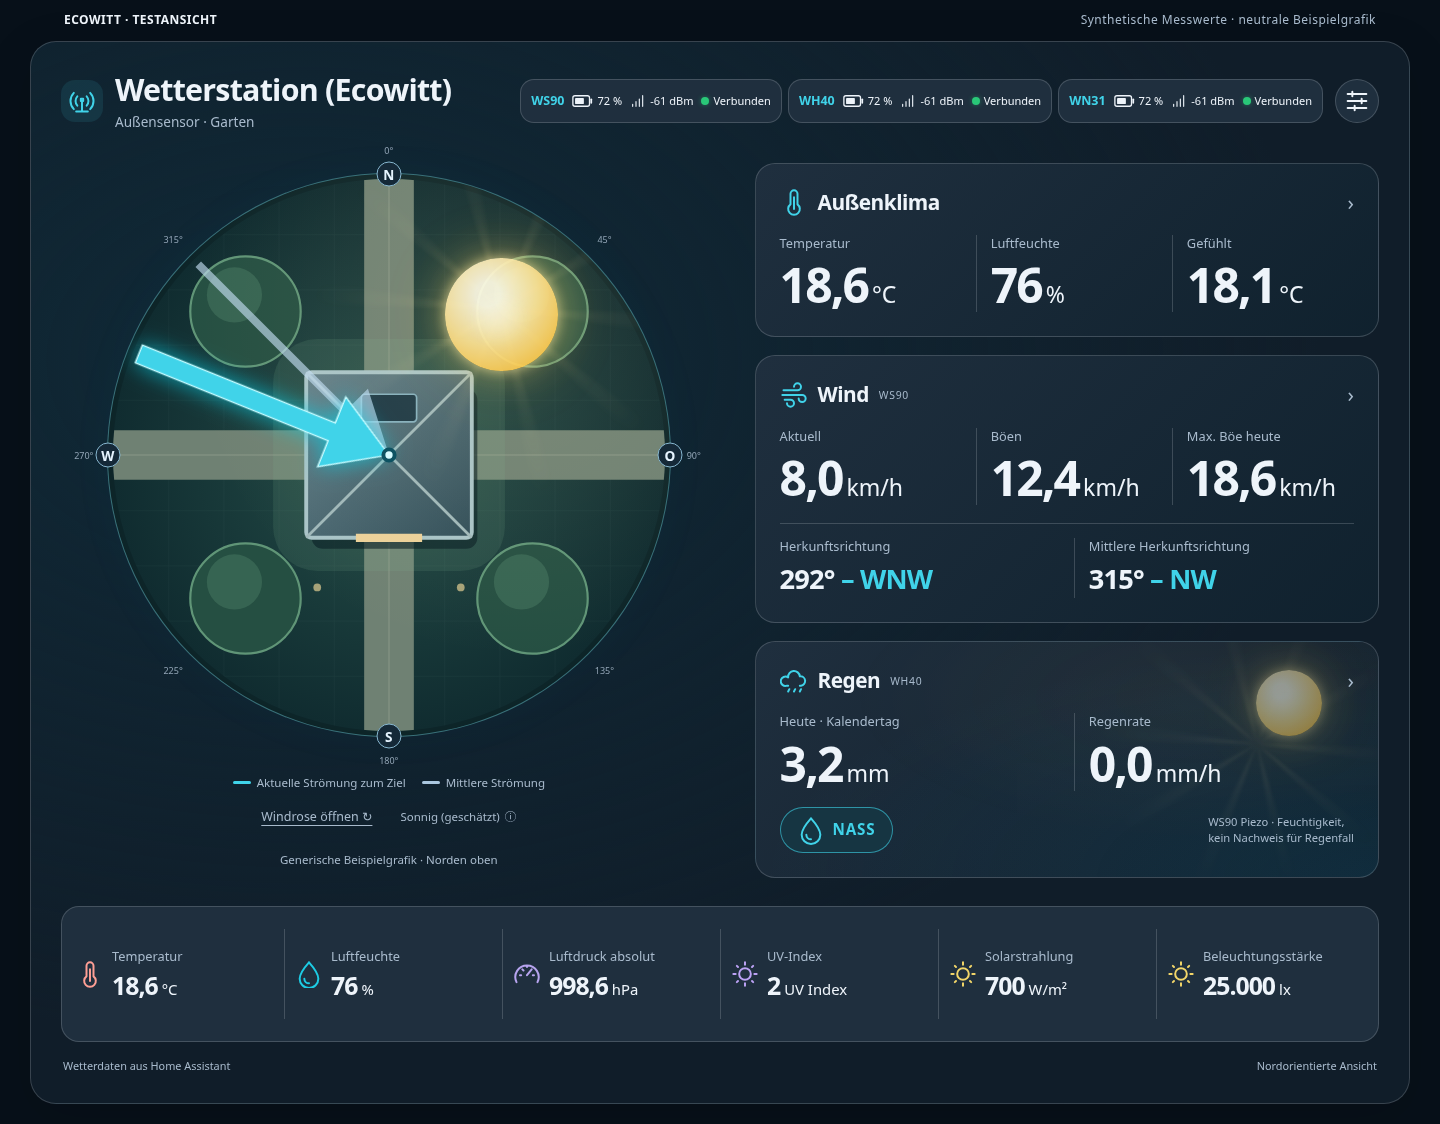
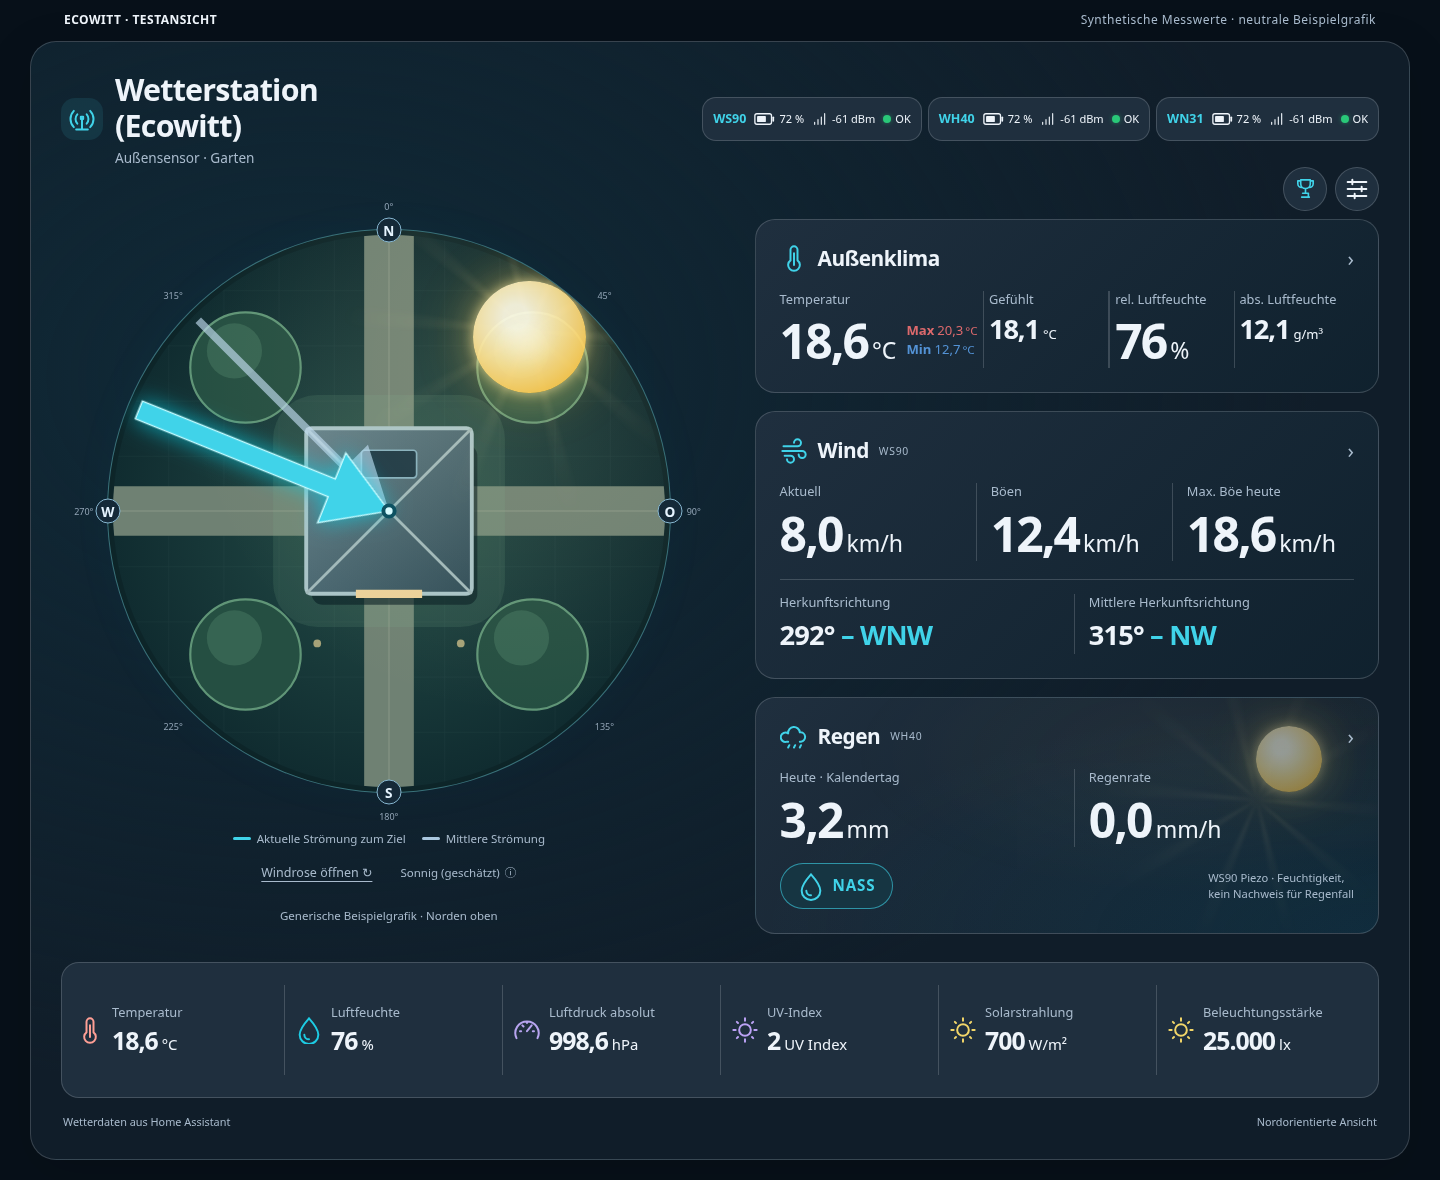
fix: refine dew point records and mobile climate layout (#38)

diff --git a/tests/browser.spec.ts b/tests/browser.spec.ts
@@ -560,7 +560,7 @@ test("the record editor saves each sensor separately and only enabled sources ap
     await options.locator("summary").click();
     for (const id of [
       "demo_temperature", "demo_room_temperature", "demo_humidity",
-      "demo_absolute_humidity", "demo_feels_like",
+      "demo_absolute_humidity", "demo_feels_like", "demo_dew_point",
     ]) {
       const checkbox = options.getByRole("checkbox", {
         name: new RegExp(`sensor\\.${id}$`),
@@ -580,7 +580,7 @@ test("the record editor saves each sensor separately and only enabled sources ap
     expect(saved).toEqual([
       "sensor.demo_wind_speed", "sensor.demo_rain_rate", "sensor.demo_pressure",
       "sensor.demo_pressure_absolute", "sensor.demo_temperature", "sensor.demo_room_temperature",
-      "sensor.demo_humidity", "sensor.demo_absolute_humidity", "sensor.demo_feels_like",
+      "sensor.demo_humidity", "sensor.demo_absolute_humidity", "sensor.demo_feels_like", "sensor.demo_dew_point",
     ]);
     await expect(options.getByRole("checkbox", { name: /sensor\.demo_room_temperature$/ })).toBeChecked();
     await expect(options.getByRole("checkbox", { name: /sensor\.demo_solar$/ })).not.toBeChecked();
@@ -596,9 +596,19 @@ test("the record editor saves each sensor separately and only enabled sources ap
       "Windgeschwindigkeit", "Höchste Regenintensität",
       "Rel. Luftfeuchte · Maximum", "Rel. Luftfeuchte · Minimum",
       "Abs. Luftfeuchte · Maximum", "Abs. Luftfeuchte · Minimum",
+      "Taupunkt · Maximum", "Taupunkt · Minimum",
       "Luftdruck relativ · Maximum", "Luftdruck relativ · Minimum",
       "Luftdruck absolut · Maximum", "Luftdruck absolut · Minimum",
     ]);
+    const humidityRecords = dialog.locator(".record-group").filter({
+      has: page.getByRole("heading", { name: "Luftfeuchte", exact: true }),
+    });
+    await expect(humidityRecords.locator('[data-record-key="dew_point"] .record-number')).toHaveCount(2);
+    for (const key of ["temperature", "feels_like", "dew_point"]) {
+      const pair = dialog.locator(".record-pair").filter({ has: page.locator(`[data-record-key="${key}"]`) }).first();
+      await expect(pair.locator('[data-record-extremum="max"]')).toHaveCSS("border-left-color", "rgb(215, 121, 64)");
+      await expect(pair.locator('[data-record-extremum="min"]')).toHaveCSS("border-left-color", "rgb(77, 135, 186)");
+    }
     const pairsAligned = await dialog.locator(".record-pair").evaluateAll(nodes =>
       nodes.every(pair => {
         const maximum = pair.querySelector('[data-record-extremum="max"]')!;
@@ -3487,35 +3497,38 @@ test("outdoor climate shows HA-local Recorder extrema and the unchanged current 
   await noOverflow(page);
 });
 
-test("day extrema are slightly larger without overlapping the main temperature on phone and desktop", async ({ page }) => {
-  for (const width of [320, 402, 1440]) {
+test("day extrema stay next to the main temperature on phone and desktop", async ({ page }) => {
+  for (const width of [320, 402, 600, 874, 1440]) {
     await page.setViewportSize({ width, height: 900 });
     await ready(page);
-    if (width === 320)
+    if (width === 320) {
       await page.addStyleTag({ content: 'ecowitt-weather-card { --paper-font-body1_-_font-family: "DejaVu Sans", sans-serif; }' });
+      await update(page, "temperature", -18.6);
+      await update(page, "temperature_max", -11.4);
+      await update(page, "temperature_min", -22.1);
+      await update(page, "humidity", 100);
+    }
     const climate = page.locator(".climate");
     const extrema = climate.locator(".climate-extreme:visible");
     await expect(extrema).toHaveCount(2);
     const sizes = await extrema.evaluateAll((nodes) => nodes.map((node) => Number.parseFloat(getComputedStyle(node).fontSize)));
     expect(sizes.every((value) => value >= 10)).toBe(true);
     const bounds = await climate.evaluate(el => {
-      const heading = el.querySelector(".climate-heading-extrema")!;
-      const extrema = heading.getBoundingClientRect().width ? heading : el.querySelector(".climate-readings")!;
-      const current = el.querySelector(".climate-readings .climate-current-value .value")!.getBoundingClientRect();
-      const max = extrema.querySelector(".climate-extreme.maximum")!.getBoundingClientRect();
-      const min = extrema.querySelector(".climate-extreme.minimum")!.getBoundingClientRect();
-      const panel = el.getBoundingClientRect();
+      const temperature = el.querySelector('.climate-readings [data-key="temperature"]')!;
+      const current = temperature.querySelector(".climate-current-value .value")!.getBoundingClientRect();
+      const max = temperature.querySelector(".climate-extreme.maximum")!.getBoundingClientRect();
+      const min = temperature.querySelector(".climate-extreme.minimum")!.getBoundingClientRect();
+      const cell = temperature.getBoundingClientRect();
       const title = el.querySelector(".panel-heading h2")!.getBoundingClientRect();
-      const overlaps = (a: DOMRect, b: DOMRect) =>
-        a.left < b.right - 0.5 && a.right > b.left + 0.5 &&
-        a.top < b.bottom - 0.5 && a.bottom > b.top + 0.5;
       return {
-        nonoverlap: [max, min].every(extreme => !overlaps(extreme, title) && !overlaps(extreme, current)),
+        besideReading: [max, min].every(extreme => extreme.width > 0 &&
+          extreme.left >= current.right - 0.5 && extreme.top >= title.bottom &&
+          extreme.top < current.bottom && extreme.bottom > current.top),
         vertical: min.top >= max.bottom - 1,
-        fits: Math.max(max.right, min.right) <= panel.right - 1,
+        fits: Math.max(max.right, min.right) <= cell.right + 0.5,
       };
     });
-    expect(bounds.nonoverlap).toBe(true);
+    expect(bounds.besideReading).toBe(true);
     expect(bounds.vertical).toBe(true);
     expect(bounds.fits).toBe(true);
     await noOverflow(page);
@@ -3827,7 +3840,7 @@ test("installed real windrose flips into the dashboard, retains instance across 
 test("wind keeps its layout and the four climate values fit at unchanged panel height on desktop and phone", async ({
   page,
 }) => {
-  for (const width of [320, 402, 792, 1024, 1440]) {
+  for (const width of [320, 402, 520, 792, 1024, 1440]) {
     await page.setViewportSize({ width, height: 1000 });
     await ready(page);
     if (width === 320 || width === 792)
@@ -3862,8 +3875,15 @@ test("wind keeps its layout and the four climate values fit at unchanged panel h
       .evaluate(node => getComputedStyle(node).fontSize);
     for (const key of ["temperature", "humidity"])
       await expect(climate.locator(`[data-key="${key}"] .value`)).toHaveCSS("font-size", primarySize);
-    for (const key of ["feels_like", "absolute_humidity"])
-      await expect(climate.locator(`[data-key="${key}"] .value`)).toHaveCSS("font-size", secondarySize);
+    for (const key of ["feels_like", "absolute_humidity"]) {
+      const value = climate.locator(`[data-key="${key}"] .value`);
+      if (width < 760) {
+        const fontSize = await value.evaluate(node => parseFloat(getComputedStyle(node).fontSize));
+        expect(fontSize / parseFloat(primarySize)).toBeCloseTo(1.7 / 3, 2);
+      } else {
+        await expect(value).toHaveCSS("font-size", secondarySize);
+      }
+    }
     await expect(climate.locator('[data-key="humidity"]')).toHaveCSS("border-left-width", "2px");
     const geometry = await climate.evaluate(grid => {
       const bounds = grid.getBoundingClientRect();

diff --git a/tests/records.test.ts b/tests/records.test.ts
@@ -211,6 +211,8 @@ test("checked climate sensors are distinct even below freezing, and unchecked so
     sample("humidity", 110, "%", later),
     sample("absolute_humidity", 3.4, "g/m³", earlier),
     sample("absolute_humidity", 97, "%", later),
+    sample("dew_point", -14, "°C", earlier),
+    sample("dew_point", -7.3, "°C", later),
     sample("feels_like", -7.1, "°C", later),
     sample("wind_speed", 42, "km/h", later),
     sample("unassigned_temperature", 27, "°C", later),
@@ -221,6 +223,7 @@ test("checked climate sensors are distinct even below freezing, and unchecked so
       temperature: "sensor.demo_temperature",
       humidity: "sensor.demo_humidity",
       absolute_humidity: "sensor.demo_absolute_humidity",
+      dew_point: "sensor.demo_dew_point",
       feels_like: "sensor.demo_feels_like",
       wind_speed: "sensor.demo_wind_speed",
     }),
@@ -231,7 +234,7 @@ test("checked climate sensors are distinct even below freezing, and unchecked so
     record_entities: [
       "sensor.demo_absolute_humidity", "sensor.demo_feels_like",
       "sensor.demo_temperature", "sensor.demo_room_temperature", "sensor.demo_humidity",
-      "sensor.demo_unassigned_temperature",
+      "sensor.demo_dew_point", "sensor.demo_unassigned_temperature",
     ],
   };
   const result = await loadWeatherRecords(hass, selection, "2026-11-17", "2026-11-17", now);
@@ -242,6 +245,7 @@ test("checked climate sensors are distinct even below freezing, and unchecked so
     ["feels_like", "sensor.demo_feels_like", -7.1, "°C"],
     ["humidity", "sensor.demo_humidity", 94, "%"],
     ["absolute_humidity", "sensor.demo_absolute_humidity", 3.4, "g/m³"],
+    ["dew_point", "sensor.demo_dew_point", -7.3, "°C"],
   ]);
   assert.deepEqual(result.records.map(({ minimum }) => minimum), [
     { value: -12.4, timestamp: Date.parse(earlier) },
@@ -249,10 +253,13 @@ test("checked climate sensors are distinct even below freezing, and unchecked so
     { value: -7.1, timestamp: Date.parse(later) },
     { value: 94, timestamp: Date.parse(earlier) },
     { value: 3.4, timestamp: Date.parse(earlier) },
+    { value: -14, timestamp: Date.parse(earlier) },
   ]);
+  assert.equal(result.records.at(-1)?.group, "humidity");
+  assert.equal(result.records.at(-1)?.timestamp, Date.parse(later));
   assert.equal(calls.length, 1);
   assert.equal(new URL(calls[0], "http://fixture.invalid").searchParams.get("filter_entity_id"),
-    "sensor.demo_temperature,sensor.demo_room_temperature,sensor.demo_feels_like,sensor.demo_humidity,sensor.demo_absolute_humidity");
+    "sensor.demo_temperature,sensor.demo_room_temperature,sensor.demo_feels_like,sensor.demo_humidity,sensor.demo_absolute_humidity,sensor.demo_dew_point");
   const empty = await loadWeatherRecords(hass, { ...selection, record_entities: [] }, "2026-11-17", "2026-11-17", now);
   assert.deepEqual(empty.records, []);
   assert.equal(calls.length, 1);

diff --git a/src/experience-styles.ts b/src/experience-styles.ts
@@ -27,9 +27,6 @@ export const experienceStyles = css`
   .climate-size-reference {
     visibility: hidden;
   }
-  .climate-heading-extrema {
-    display: none;
-  }
   .climate .climate-readings {
     grid-template-columns: minmax(max-content, 1.65fr) repeat(3, minmax(min-content, 1fr));
     column-gap: clamp(2px, 0.35cqi, 8px);
@@ -59,28 +56,17 @@ export const experienceStyles = css`
       block-size: 1.35em;
     }
   }
+  /* Preserve the reference height where the extrema used to sit in the heading. */
   @container weather (max-width:599px) or ((min-width:760px) and (max-width:1379px)) {
-    .climate-heading {
-      gap: 4px;
-    }
-    .climate-heading-extrema {
-      display: flex;
-      align-items: center;
-      block-size: 28px;
-      margin-inline-start: auto;
-    }
-    .climate-heading .more {
-      margin-inline-start: 0;
-    }
-    .climate-readings .climate-extremes {
+    .climate-size-reference .climate-extremes {
       display: none;
     }
   }
   /* Keep each unit on its value's baseline. Narrow cards put temperature
      and humidity in two columns, with the secondary values below. */
-  @container weather (max-width:479px) or ((min-width:760px) and (max-width:1039px)) {
+  @container weather (max-width:519px) or ((min-width:760px) and (max-width:1339px)) {
     .climate .climate-readings {
-      grid-template-columns: repeat(2, minmax(0, 1fr));
+      grid-template-columns: minmax(max-content, 1.25fr) minmax(min-content, 1fr);
       grid-template-rows: repeat(2, max-content);
       grid-auto-flow: column;
       gap: 2px 8px;
@@ -102,7 +88,15 @@ export const experienceStyles = css`
       padding-left: 8px;
     }
   }
-  @container weather (min-width:760px) and (max-width:1039px) {
+  @container weather (max-width:759px) {
+    .climate-secondary .value {
+      font-size: calc(var(--reading-size) * 1.7 / 3);
+    }
+    .climate-secondary .value .unit {
+      font-size: max(0.625rem, 0.48em);
+    }
+  }
+  @container weather (min-width:760px) and (max-width:1339px) {
     .climate-heading {
       transform: translateY(-12px);
     }
@@ -110,7 +104,7 @@ export const experienceStyles = css`
       margin-block: -26px -14px;
     }
   }
-  @container weather (min-width:1040px) and (max-width:1379px) {
+  @container weather (min-width:1340px) and (max-width:1379px) {
     .climate .climate-readings {
       column-gap: 2px;
     }

diff --git a/src/records.ts b/src/records.ts
@@ -24,7 +24,6 @@ interface RecordDefinition {
 const recordDefinitions: readonly RecordDefinition[] = [
   { key: "temperature", title: "Temperatur", group: "temperature", icon: "temperature", color: "#d77940" },
   { key: "feels_like", title: "Gefühlte Temperatur", group: "temperature", icon: "temperature", color: "#d77940" },
-  { key: "dew_point", title: "Taupunkt", group: "temperature", icon: "temperature", color: "#d77940" },
   { key: "temperature_min", title: "Höchstes Tagesminimum", group: "temperature", icon: "temperature", color: "#d77940" },
   { key: "temperature_max", title: "Temperatur-Tagesmaximum", group: "temperature", icon: "temperature", color: "#d77940" },
   { key: "vpd", title: "Dampfdruckdefizit", group: "temperature", icon: "humidity", color: "#209bb7" },
@@ -44,6 +43,7 @@ const recordDefinitions: readonly RecordDefinition[] = [
   { key: "rain_event", title: "Regenereignis", group: "rain", icon: "rain", color: "#326bd5" },
   { key: "humidity", title: "Rel. Luftfeuchte", group: "humidity", icon: "humidity", color: "#209bb7" },
   { key: "absolute_humidity", title: "Abs. Luftfeuchte", group: "humidity", icon: "humidity", color: "#209bb7" },
+  { key: "dew_point", title: "Taupunkt", group: "humidity", icon: "temperature", color: "#d77940" },
   { key: "solar", title: "Solarstrahlung", group: "sun", icon: "sun", color: "#b88117" },
   { key: "solar_lux", title: "Beleuchtungsstärke", group: "sun", icon: "sun", color: "#b47b24" },
   { key: "uv", title: "UV-Index", group: "sun", icon: "sun", color: "#ab5688" },

diff --git a/src/ecowitt-weather-card.ts b/src/ecowitt-weather-card.ts
@@ -932,7 +932,6 @@ export class EcowittWeatherCard extends LitElement {
       <div class="panel-heading climate-heading">
         ${icon("temperature")}
         <h2>Außenklima</h2>
-        <span class="climate-heading-extrema">${extremes}</span>
         <span class="more">›</span>
       </div>
       <div class="climate-layout">
@@ -1300,10 +1299,11 @@ export class EcowittWeatherCard extends LitElement {
           ? "Tageswechsel nicht nachgewiesen – kein verlässlicher Rekord"
           : "Keine gültigen Aufzeichnungen im Zeitraum";
     const source = this._source(entityId, item.title);
+    const accent = extremum === "min" && item.icon === "temperature" ? "#4d87ba" : item.color;
     return html`<button type="button" class="record-tile"
       data-record-key=${item.key}
       data-record-extremum=${extremum ?? nothing}
-      style=${`--record-accent: ${item.color}`}
+      style=${`--record-accent: ${accent}`}
       ?disabled=${state === "missing"}
       aria-label=${state === "missing" ? `${title}: Quelle fehlt` : `${title}: ${source} in HA öffnen`}
       @click=${() => this._moreInfo(entityId)}>

diff --git a/src/styles.ts b/src/styles.ts
@@ -376,7 +376,8 @@ export const cardStyles = css`
     line-height: 1.35;
   }
   .value {
-    font-size: clamp(1.8rem, 4cqi, 3rem);
+    --reading-size: clamp(1.8rem, 4cqi, 3rem);
+    font-size: var(--reading-size);
     font-weight: 650;
     line-height: 1.15;
     letter-spacing: -0.04em;
@@ -1267,13 +1268,12 @@ export const cardStyles = css`
       height: 38px;
     }
     .value {
-      font-size: 1.7rem;
+      --reading-size: 1.7rem;
     }
     .wet-description {
       max-width: 120px;
     }
-    .bearing,
-    .climate-secondary .value {
+    .bearing {
       font-size: 1.5rem;
     }
     .detail-grid {

diff --git a/docs/WEATHER_WINDROSE.md b/docs/WEATHER_WINDROSE.md
@@ -40,6 +40,6 @@ Regenmengen für den heutigen Kalendertag und für die gleitenden letzten 24 Stu
 
 Unter **Wetterrekorde · Messquellen auswählen** im Karteneditor lassen sich zugeordnete numerische Entitäten einzeln anhaken, auch Zusatzsensoren weiterer Geräte. Wetterzustände und Ein/Aus-Sensoren haben keinen numerischen Rekord. Ungewählte Quellen werden weder abgefragt noch als Kachel angezeigt. Ohne gespeicherte Auswahl bleiben in bestehenden Karten die bisher angezeigten Rekordquellen ausgewählt. Neue Karten starten mit einer leeren Auswahl.
 
-Temperatur und gefühlte Temperatur stehen am Anfang. Relative und absolute Luftfeuchte stehen in einem eigenen Abschnitt nach Niederschlag. Für diese Messgrößen sowie relativen und absoluten Luftdruck zeigt jede ausgewählte Quelle ein Paar mit Maximum links und Minimum rechts. Mehrere Sensoren derselben Messgröße bleiben getrennt. Die übrigen Messgrößen zeigen ihren Höchstwert wie bisher.
+Temperatur und gefühlte Temperatur stehen am Anfang. Relative und absolute Luftfeuchte sowie Taupunkt stehen im Abschnitt Luftfeuchte nach Niederschlag. Für diese Messgrößen sowie relativen und absoluten Luftdruck zeigt jede ausgewählte Quelle ein Paar mit Maximum links und Minimum rechts. Mehrere Sensoren derselben Messgröße bleiben getrennt. Die übrigen Messgrößen zeigen ihren Höchstwert wie bisher.
 
 Über die Schaltfläche **Wetterrekorde** sind die aufgezeichneten Extreme der ausgewählten Quellen abrufbar. Standard ist **Heute** und damit der laufende Kalendertag in der Home-Assistant-Zeitzone. Bei einer anderen Datumsauswahl gelten die Werte für den gesamten gewählten Zeitraum. Bei täglich zurückgesetzten Werten wie Tagesregen und Tagesmaximalböe berücksichtigt die Karte Tage mit erkennbarer Rücksetzung. Lücken im Recorder können die sichtbaren Rekorde begrenzen.
